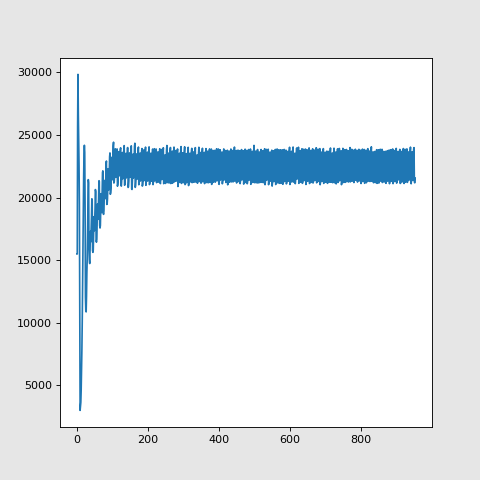
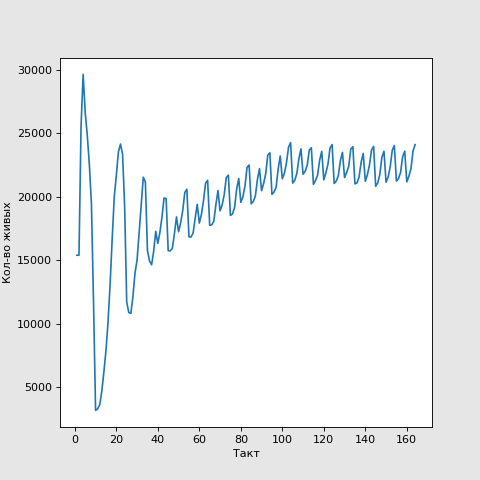
C компа Алии

diff --git a/lab4/alia/main_part1.cpp b/lab4/alia/main_part1.cpp
@@ -42,11 +42,11 @@ int main() {
 
             double hy1 = y_j - y_j_left;
             double hy2 = y_j_right - y_j;
-            // double hy1 = 0.0001;
-            // double hy2 = 0.0001;
-            // cout << fixed << setprecision(20) <<  y_j_left << " " << y_j << " "  << y_j_right <<  endl;
-            // cout << fixed << setprecision(20) <<  hy1 << " " << hy2 << endl;
-            //             double hy1 = 0.1, hy2 = 0.1;
+//             double hy1 = 0.0001;
+//             double hy2 = 0.0001;
+//             cout << fixed << setprecision(20) <<  y_j_left << " " << y_j << " "  << y_j_right <<  endl;
+//             cout << fixed << setprecision(20) <<  hy1 << " " << hy2 << endl;
+//                         double hy1 = 0.1, hy2 = 0.1;
             u[i][j] = u[i - 1][j]
                       + hx / u[i - 1][j] *
                       (2 * nu / (hy2 * (hy1 + hy2)) * u[i - 1][j + 1]

diff --git a/lab2/src/organisms_2.py b/lab2/src/organisms_2.py
@@ -238,7 +238,7 @@ class CellularAutomaton:
                         plt.xlabel('Такт')
                         plt.ylabel('Кол-во живых')
                         plt.savefig("active_cells_plot.png")
-                        np.savez('lab2.npz', active=ACTIVE, count=COUNT)
+                        # np.savez('lab2.npz', active=ACTIVE, count=COUNT)
                         running = False
 
                     # elif event.type == pygame.MOUSEBUTTONDOWN:

diff --git a/lab3/report/analytics.py b/lab3/report/analytics.py
@@ -1,0 +1,8 @@
+import numpy as np
+import matplotlib.pyplot as plt
+
+eps = 300
+y = np.linspace(0, 1, 100)
+fi = y * (1 - y) * (0.5 - y) ** 2
+plt.plot(y, 1 + eps * fi)
+plt.show()
